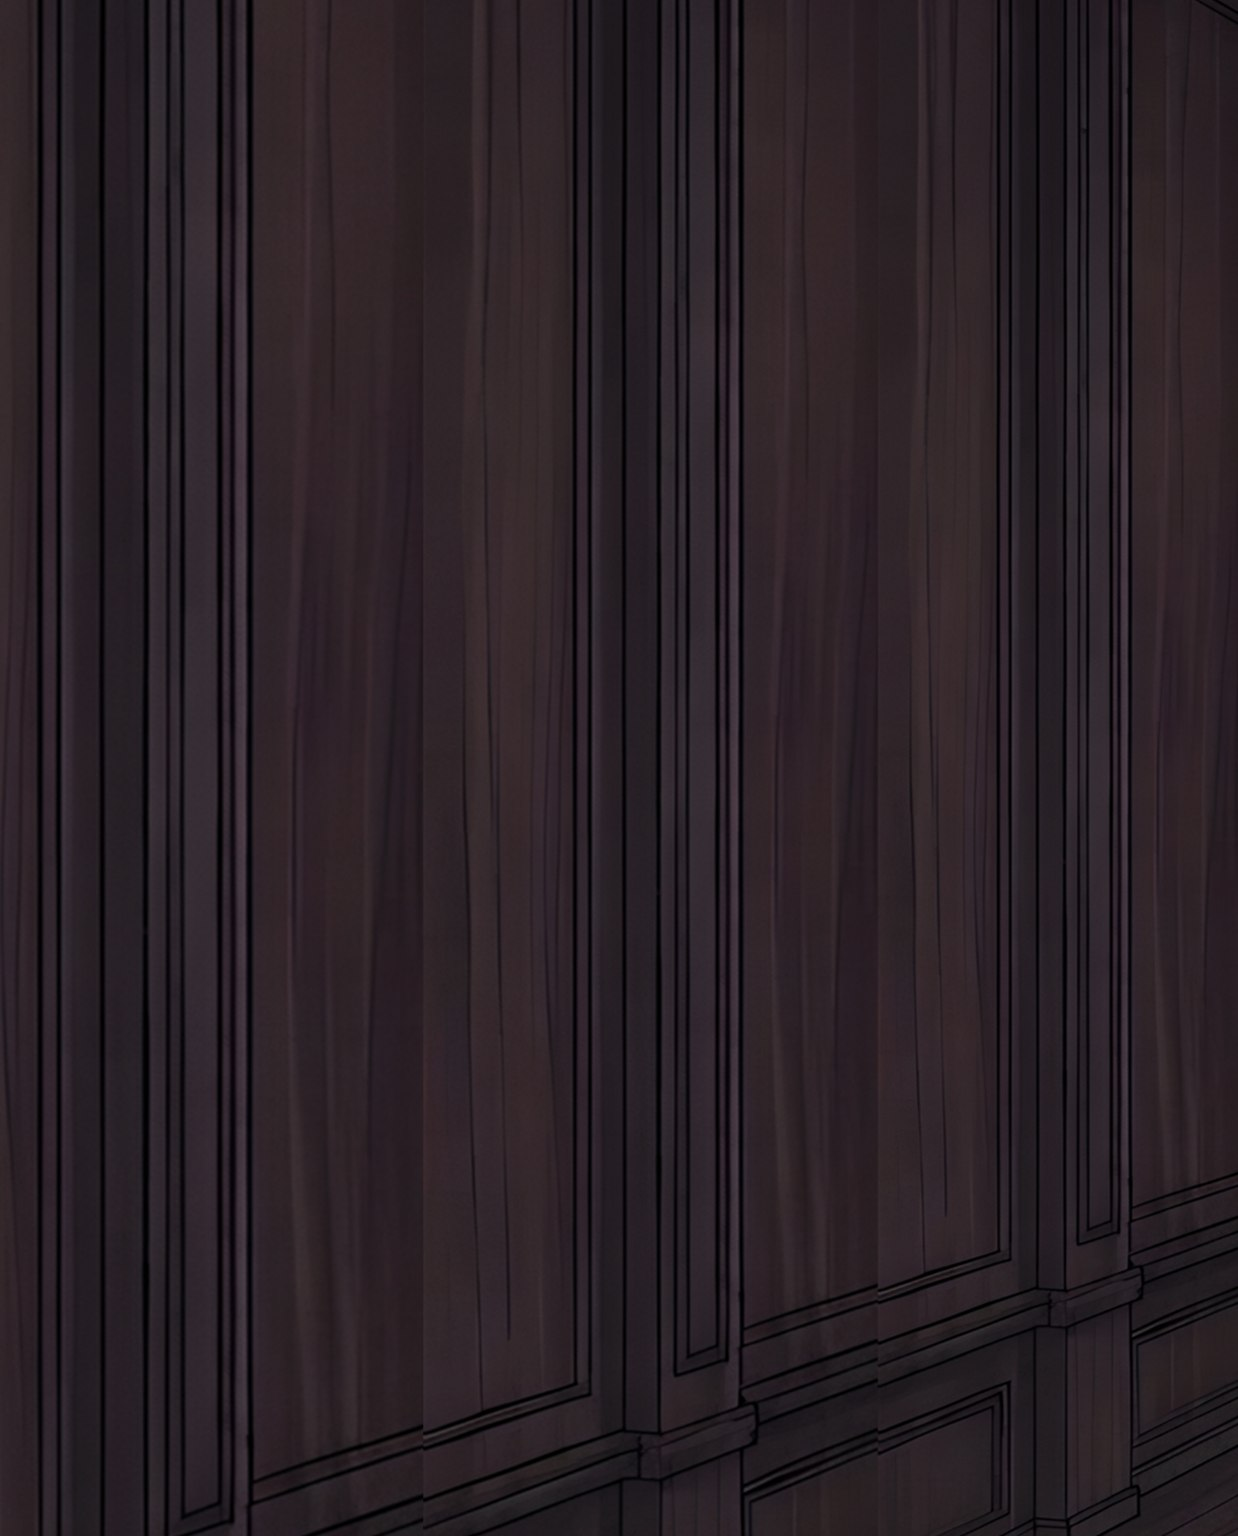
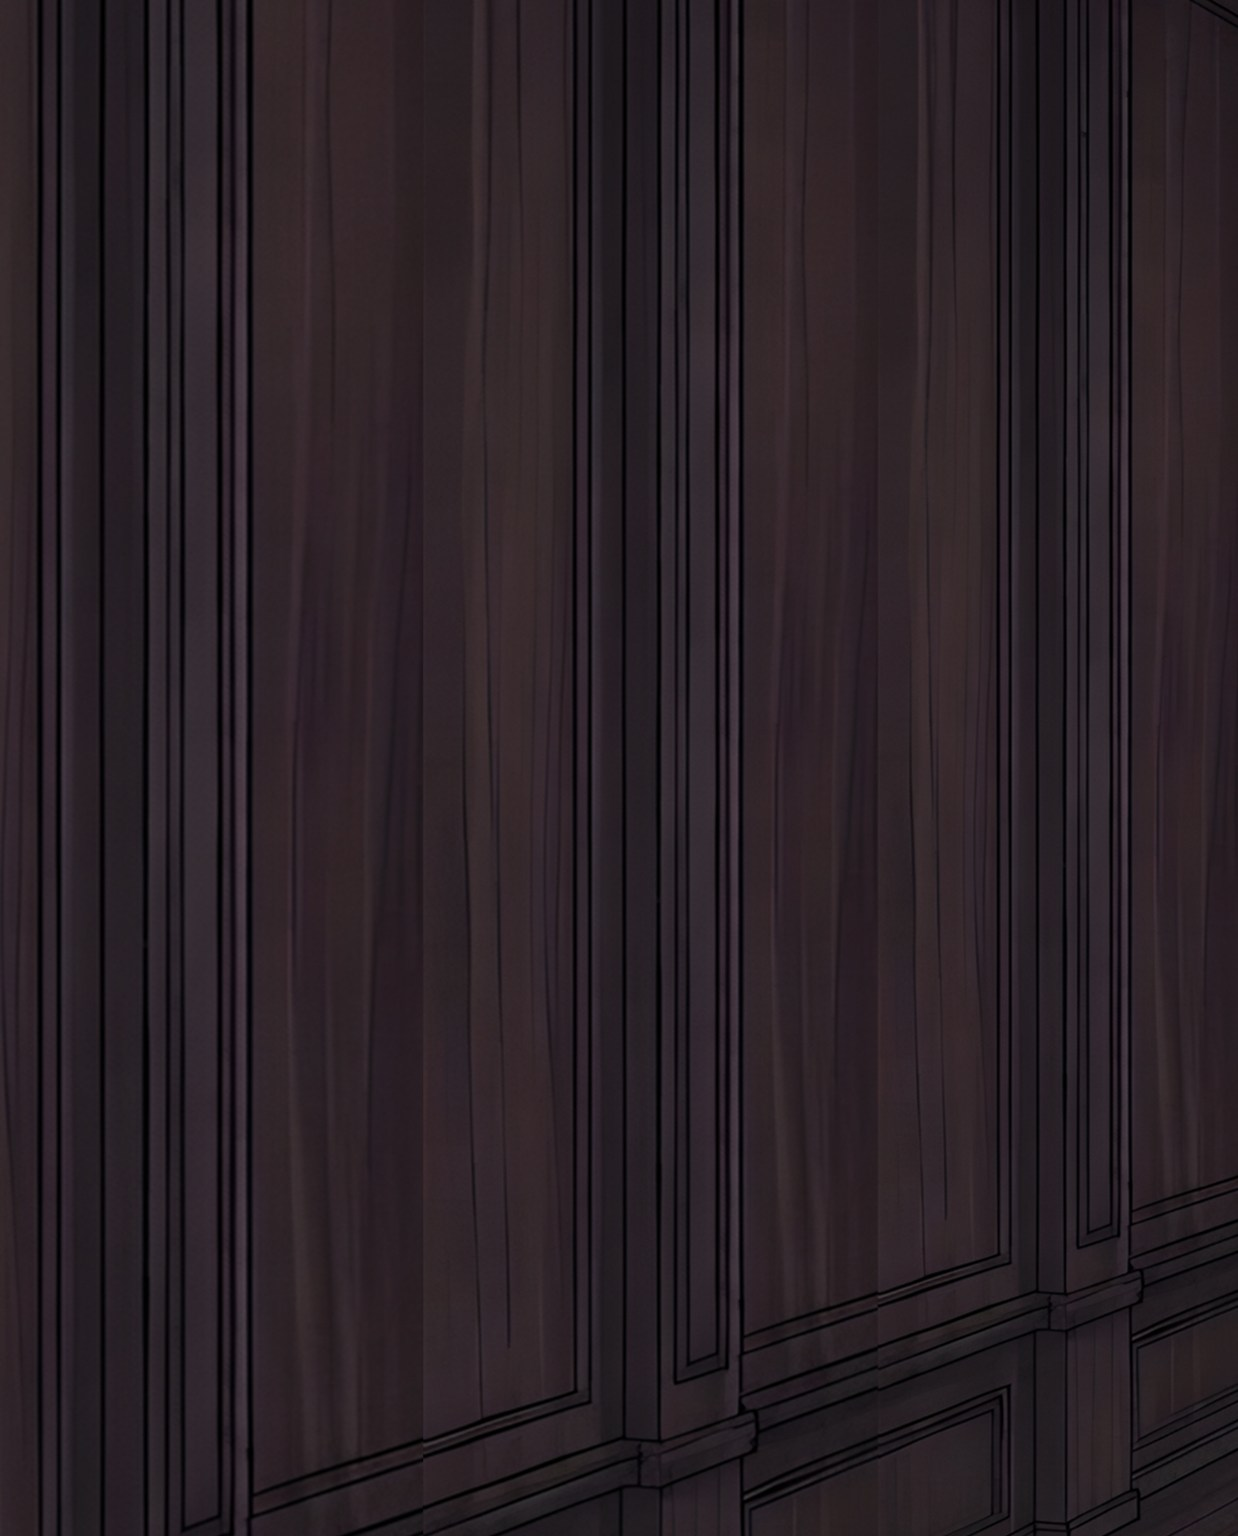
Speech balloon sits beside the customer's face; side walls lowered 3.5px to meet the lower panels exactly

diff --git a/css/style.css b/css/style.css
@@ -301,9 +301,9 @@ button.small{font-size:12px;padding:2px 10px}
 .proto{display:flex;flex-wrap:wrap;gap:5px;align-items:center;border-radius:14px;padding:5px 10px;font-size:13px}
 .proto[hidden],.tip[hidden]{display:none}
 .proto select,.proto button{font-size:13px;padding:2px 6px}
-/* What the customer says: a speech balloon over the right-hand window, its tail pointing back at the customer
+/* What the customer says: a speech balloon just right of the customer's face, its tail pointing at them
    behind the counter. Above it, who they are and what they do; below it, the player's buttons and (once) a tutorial note. */
-.dialogue{position:absolute;top:clamp(12px,4vh,40px);right:clamp(12px,3vw,48px);z-index:7;width:min(440px,38vw);max-height:62vh;overflow:auto;padding:4px 4px 8px 32px}
+.dialogue{position:absolute;top:13vh;left:calc(50% + 6.5vw);z-index:7;width:min(420px,36vw);max-height:66vh;overflow:auto;padding:4px 4px 8px 32px}
 .dialogue[hidden]{display:none}
 .balloon .cue{margin:0 0 6px;color:var(--ink-soft);font-size:14px}
 .balloon{position:relative;background:var(--card);color:var(--ink);border:2px solid var(--line);border-radius:22px;padding:12px 16px;box-shadow:var(--glow);font-size:16px;line-height:1.45}
@@ -311,8 +311,8 @@ button.small{font-size:12px;padding:2px 10px}
 .balloon .asked{font-size:14px;color:var(--ink-soft)}
 .balloon .tale{background:none;padding:0}
 /* the tail: two triangles (border colour, then fill) on the left edge */
-.balloon::before,.balloon::after{content:"";position:absolute;left:-30px;top:20px;border-style:solid;border-width:13px 30px 13px 0;border-color:transparent var(--line) transparent transparent}
-.balloon::after{left:-25px;top:23px;border-width:10px 26px 10px 0;border-color:transparent var(--card) transparent transparent}
+.balloon::before,.balloon::after{content:"";position:absolute;left:-30px;top:44px;border-style:solid;border-width:13px 30px 13px 0;border-color:transparent var(--line) transparent transparent}
+.balloon::after{left:-25px;top:47px;border-width:10px 26px 10px 0;border-color:transparent var(--card) transparent transparent}
 .dialogue .row{margin-top:10px}
 /* a tutorial note, shown once: pinned paper, clearly not part of what the customer says */
 .coach{margin:12px 0 0;background:var(--butter);color:#3A2530;border-radius:4px 14px 14px 14px;padding:10px 14px;font-size:14px;line-height:1.45;box-shadow:var(--glow);rotate:-.6deg}

diff --git a/js/config.js b/js/config.js
@@ -48,7 +48,7 @@ const ASSETS = {
   },
   /* The workroom below the counter: shelves either side (Kitchen left, Cabinet right) and the altar table in front. */
   altarRoom: 'assets/scene/altar-room.jpg',
-  /* the walls past the picture on a wide window: the same room drawn empty, enlarged around its vanishing point (1376, 745 on the
+  /* the walls past the picture on a wide window: the same room drawn empty, enlarged around its vanishing point (1376, 732 on the
      2752×1536 picture, where its lower wall lines meet) by 1.262 per panel, five steps, each strip 1238px (45%) wide */
   altarWallL: 'assets/scene/altar-wall-left.jpg', altarWallR: 'assets/scene/altar-wall-right.jpg',
   cabinetInside: 'assets/scene/cabinet-inside.jpg',  /* seen behind a cupboard door when it opens */

diff --git a/DESIGN_NOTES.md b/DESIGN_NOTES.md
@@ -42,7 +42,7 @@ A cozy witch-shop deduction game. Customers describe a need (never the recipe na
 - **Results**: a regular tells their own result on their next visit, on its own screen before the new request. A walk-in comes back themselves in the next quiet hour (or after two days, before the next customer) to say how it went, in their own voice and about the right person. A perfect order needs no report; the customer's passing hint is the thanks.
 - **Advice seekers** ask a quick question ("which herb…?"). They fill quiet hours in week one.
 - **Names**: nobody at the counter is labelled, walk-in or regular. Who they are comes out in what they say and do; a regular says their own name in their first line. (The receipts and the diary still note who it was.)
-- **Speech balloon**: everything a customer says and does sits in one balloon over the right-hand window, its tail pointing back at them: the cue in brackets first, then their words. The buttons sit below it. The altar's reminder reads "They asked: …".
+- **Speech balloon**: everything a customer says and does sits in one balloon just right of their face, its tail pointing at them: the cue in brackets first, then their words. The buttons sit below it. The altar's reminder reads "They asked: …".
 - **Tutorials happen once**: the first order, the first order that can't be made while they wait, and the first advice question each get a numbered tutorial note during that visit only. Later visits carry no instructions, just what the customer says and the buttons. Each note has a × that puts it away for good, and a "Skip tutorials" link that turns them all off (the first-day email tip too). Jumping with the prototype bar counts every tutorial whose first visit comes earlier as seen.
 
 ## Grading and feedback
